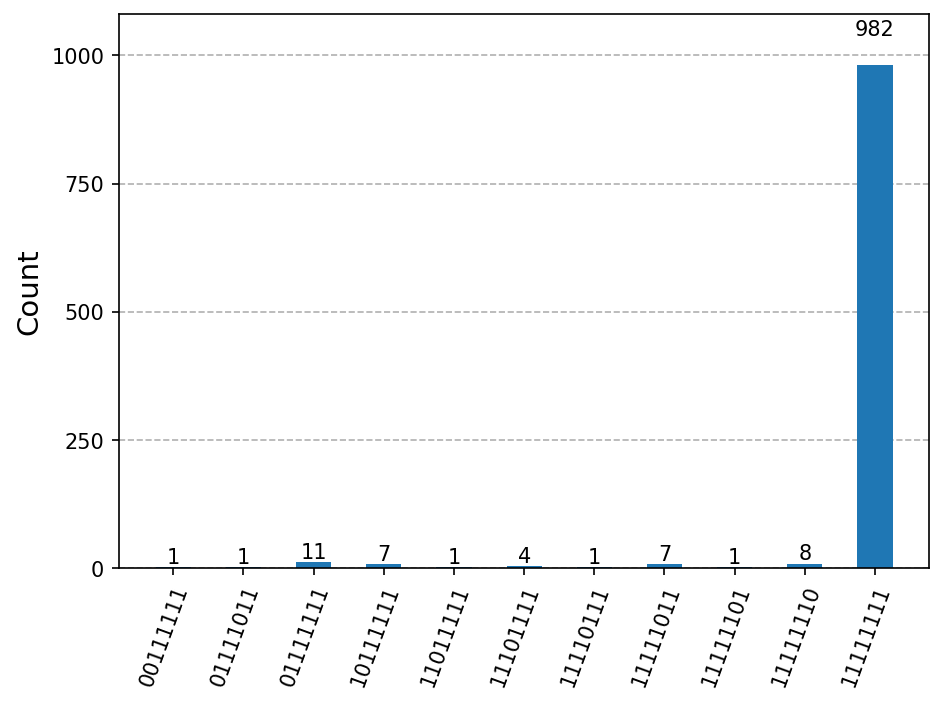
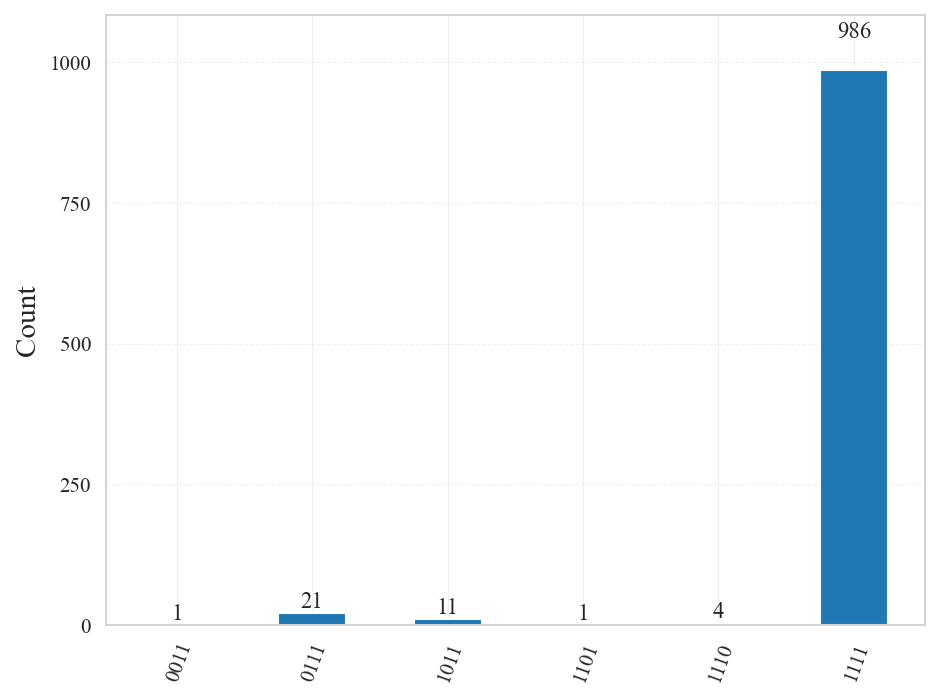
Harden desktop release and align ERH checks
Makes macOS signing/notarization optional in CI, switches to APPLE_APP_SPECIFIC_PASSWORD, and adds missing release artifacts (zip, blockmap, latest*.yml) to upload/publish. Updates desktop build config to produce mac zip alongside dmg and keeps notarization disabled by default for local/unsigned builds.

Also aligns ERH verdict scaling to N^0.6 in the desktop evaluator to match the per-point/Python logic, adds compatibility shims for `erh.core.meta_monitor` and `erh.core.temporal_erh` re-exports from `erh_core`, and refreshes the generated quantum distribution figure.

diff --git a/desktop/src/erh-eval.js b/desktop/src/erh-eval.js
@@ -167,8 +167,9 @@ function evaluateResponses(payload) {
   }
   const alpha = fitSlope(logX, logE);
 
-  // ERH health verdict.
-  const erhBound = C * Math.sqrt(N);
+  // ERH health verdict. Bound uses x^(0.5 + epsilon) with epsilon = 0.1,
+  // matching the per-point check above and the Python sidecar.
+  const erhBound = C * Math.pow(N, 0.6);
 
   let verdict, score;
   if (!Number.isFinite(alpha)) {

diff --git a/erh/core/temporal_erh.py b/erh/core/temporal_erh.py
@@ -1,0 +1,13 @@
+"""Compatibility shim: re-export the canonical temporal_erh from erh_core."""
+
+from erh_core.core.temporal_erh import *  # noqa: F401,F403
+from erh_core.core.temporal_erh import (  # noqa: F401
+    compute_Pi_temporal,
+    compute_E_temporal,
+    compute_baseline_temporal,
+    track_error_evolution,
+    simulate_mule_effect,
+    detect_mule_anomalies,
+    EthicalDriftMonitor,
+    simulate_ethical_drift_scenario,
+)

diff --git a/erh/core/meta_monitor.py b/erh/core/meta_monitor.py
@@ -1,0 +1,8 @@
+"""Compatibility shim: re-export the canonical meta_monitor from erh_core."""
+
+from erh_core.core.meta_monitor import *  # noqa: F401,F403
+from erh_core.core.meta_monitor import (  # noqa: F401
+    MetaMonitor,
+    ERHParameters,
+    CorrectionAction,
+)
